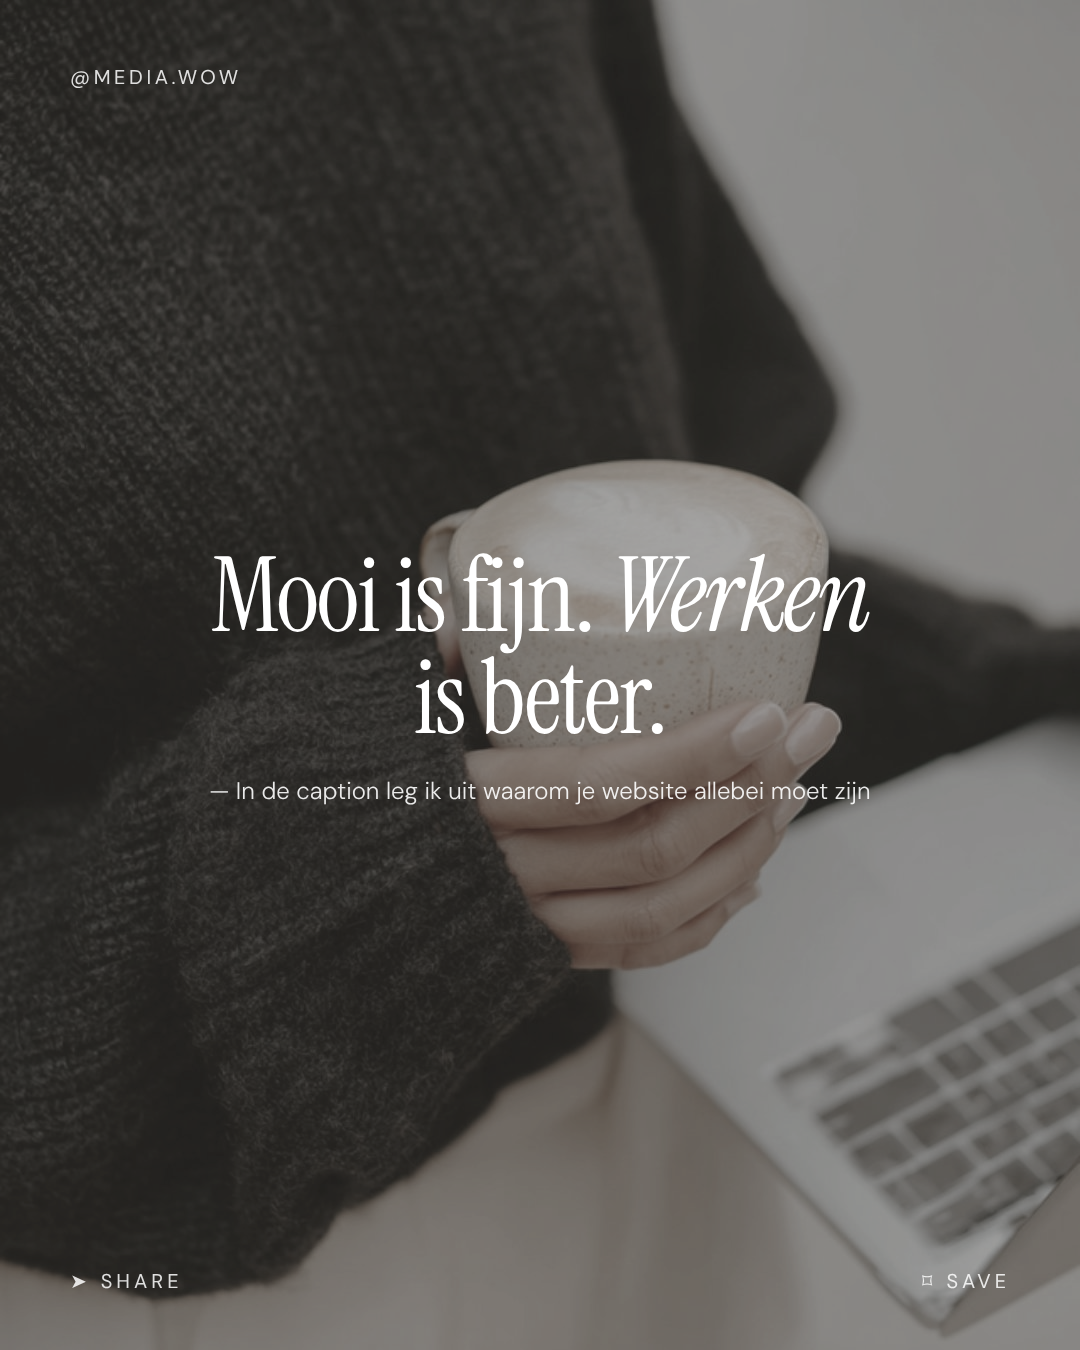
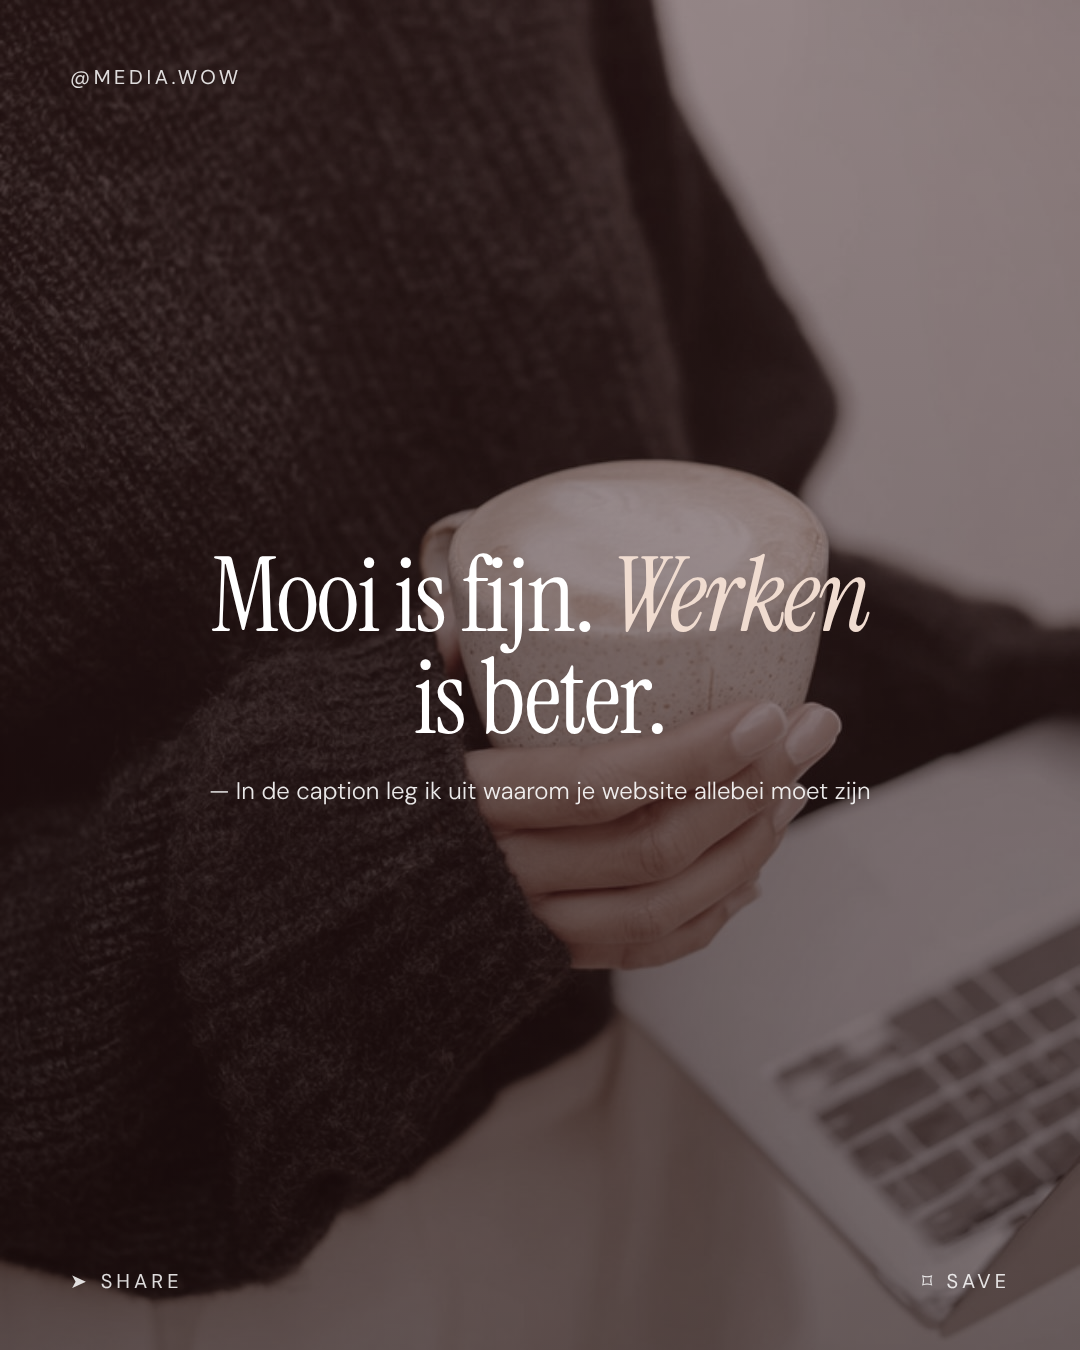
Soft style proofs with bordeaux
Claude-Session: https://claude.ai/code/session_01RBQ5c9Pv2G8CobvSf5vDwJ

diff --git a/instagram/proef-zacht/make.js b/instagram/proef-zacht/make.js
@@ -11,26 +11,32 @@ const css = `*{margin:0;padding:0;box-sizing:border-box}body{width:1080px;height
 .handle{position:absolute;top:64px;left:70px;font-size:20px;letter-spacing:.18em;text-transform:uppercase;opacity:.85}
 .mid{position:absolute;left:80px;right:80px;top:50%;transform:translateY(-50%);text-align:center}
 h1{font-family:'Instrument Serif';font-weight:400;font-size:104px;line-height:.98;letter-spacing:-.02em}
-h1 em{font-style:italic}
+h1 em{font-style:italic;color:#F0DCD0}
 .sub{margin-top:26px;font-size:24px;font-weight:300;opacity:.9}
 .foot{position:absolute;left:70px;right:70px;bottom:56px;display:flex;justify-content:space-between;font-size:20px;letter-spacing:.2em;text-transform:uppercase;opacity:.85}
 .foot span:before{display:inline-block;margin-right:10px}
 .share:before{content:'➤'}.save:before{content:'⌑'}
 .logo{aspect-ratio:1058/244;-webkit-mask:url(${LOGO}) no-repeat center/contain}
-.sticker{position:absolute;left:50%;top:50%;width:330px;height:330px;margin:-165px 0 0 -165px;border-radius:50%;background:#F2EFEA;box-shadow:0 30px 60px rgba(0,0,0,.18),inset 0 0 0 1px rgba(0,0,0,.04);display:flex;align-items:center;justify-content:center}
-.sticker .logo{width:230px;background:#3A1011}`;
+.sticker{position:absolute;left:50%;top:50%;width:330px;height:330px;margin:-165px 0 0 -165px;border-radius:50%;background:#3A1011;box-shadow:0 30px 60px rgba(0,0,0,.18),inset 0 0 0 1px rgba(0,0,0,.04);display:flex;align-items:center;justify-content:center}
+.sticker .logo{width:230px;background:#FAF4ED}`;
 const pages = {
   'zacht-1-quote': `<div class="s" style="color:#fff">
     <img class="bg" src="${img('canva/foto-157.jpg')}" style="object-position:50% 35%">
-    <div class="veil" style="background:rgba(60,55,50,.42)"></div>
+    <div class="veil" style="background:linear-gradient(180deg,rgba(58,16,17,.38),rgba(27,4,5,.55))"></div>
     <div class="handle">@media.wow</div>
     <div class="mid"><h1>Mooi is fijn. <em>Werken</em><br>is beter.</h1><div class="sub">— In de caption leg ik uit waarom je website allebei moet zijn</div></div>
     <div class="foot"><span class="share">Share</span><span class="save">Save</span></div></div>`,
   'zacht-2-quote-donker': `<div class="s" style="color:#fff">
     <img class="bg" src="${img('canva/foto-067.jpg')}" style="object-position:50% 50%">
-    <div class="veil" style="background:rgba(45,40,38,.5)"></div>
+    <div class="veil" style="background:linear-gradient(180deg,rgba(58,16,17,.45),rgba(27,4,5,.62))"></div>
     <div class="handle">@media.wow</div>
     <div class="mid"><h1>Een lege tafel <em>begint</em><br>op je website.</h1><div class="sub">— In de caption: 3 dingen die gasten zoeken vóór ze reserveren</div></div>
+    <div class="foot"><span class="share">Share</span><span class="save">Save</span></div></div>`,
+  'zacht-4-licht-bordeaux': `<div class="s" style="color:#3A1011">
+    <img class="bg" src="${img('canva/foto-094.jpg')}" style="object-position:50% 70%;filter:saturate(.2) brightness(1.08)">
+    <div class="veil" style="background:rgba(250,244,237,.55)"></div>
+    <div class="handle">@media.wow</div>
+    <div class="mid"><h1>Je klanten lezen niet. <em style="color:#8E1F27">Ze scannen.</em></h1><div class="sub">— In de caption: zo zet je het belangrijkste op de juiste plek</div></div>
     <div class="foot"><span class="share">Share</span><span class="save">Save</span></div></div>`,
   'zacht-3-adempauze': `<div class="s">
     <img class="bg" src="${img('canva/foto-094.jpg')}" style="object-position:50% 60%;filter:saturate(.25) brightness(1.05)">
